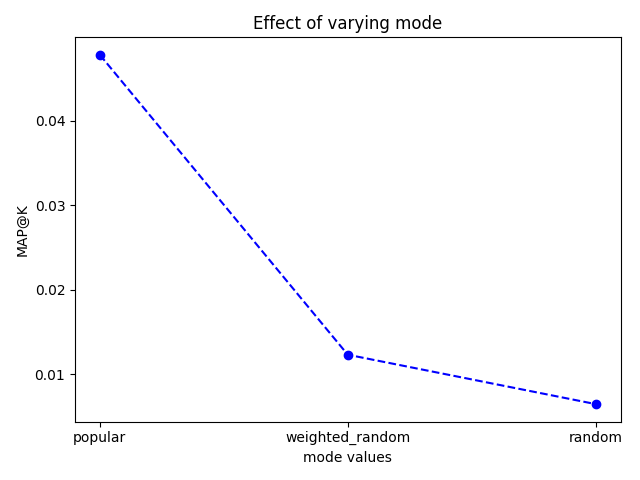
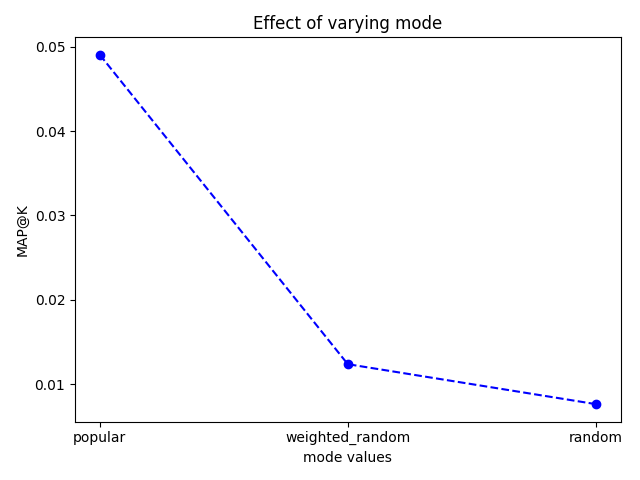
add more graphs

diff --git a/baseline_figs.py b/baseline_figs.py
@@ -1,45 +1,67 @@
 import numpy as np
 import matplotlib.pyplot as plt
+plt.rc('axes', labelsize=18)
+plt.rc('xtick', labelsize=12)
+plt.rc('ytick', labelsize=12)
+plt.rc('legend', fontsize=12)
 
-metrics_to_get = ['MAP@K', 'mean_cosine_list_dissimilarity', 'metadata_diversity']
-hparams = ['mode', 'knn_frac', 'k']
-figure_dir = 'figures_91k_N_20'
-
-
+figure_dir = 'figures_91k_N_20-apr-17'
 hparam_vals_map = {
     'mode': ['popular', 'weighted_random', 'random'],
-    'knn_frac': [0.25, 0.5, 0.75, 1],
-    'k': [50, 100, 250, 500],
+    'k': [20, 30, 50, 75, 100, 250, 500, 750, 1000],
+    'knn_frac': [0, 0.1, 0.2, 0.3, 0.4, 0.5, 0.6, 0.7, 0.8, 0.9, 1],
 }
 
-for hparam_name, hparam_vals in hparam_vals_map.items():
-    results = np.load(f'{figure_dir}/results_{hparam_name}.npy')
-    for i in range(len(metrics_to_get)):
-        metric_name = metrics_to_get[i]
-        plt.figure()
-        plt.title(f'Effect of varying {hparam_name}')
-        plt.plot(hparam_vals, results[i, :], linestyle='--', marker='o', color='b')
+# hparam_vals_map = {
+#     'mode': ['popular', 'weighted_random', 'random'],
+#     'k': [20, 30, 50, 75, 100, 250, 500, 750, 1000],
+#     'knn_frac': [0, 0.1, 0.2, 0.3, 0.4, 0.5, 0.6, 0.7, 0.8, 0.9, 1],
+#     'max_overlap': [0.05, 0.1, 0.15, 0.2, 0.25, 0.3, 0.35, 0.4],
+# }
+# metrics_to_get = ['MAP@K', 'num_genres']
+metrics_to_get = ['MAP@K', 'mean_cosine_list_dissimilarity']
 
+fig, axes = plt.subplots(len(metrics_to_get), len(hparam_vals_map), figsize=(20,10))
+for i in range(len(metrics_to_get)):
+    ax_row = axes[i]
+    metric_name = metrics_to_get[i]
+    ax_row[0].set_ylabel(metric_name)
+
+    for (hparam_name, hparam_vals), ax in zip(hparam_vals_map.items(), ax_row):
+        results = np.load(f'{figure_dir}/results_{hparam_name}.npy')
+#         ax.set_title(f'Effect of varying {hparam_name}')
+        ax.plot(hparam_vals, results[i, :], linestyle='--', marker='o', color='black')
+        
+        ax.set_xlabel(hparam_name)
+        
         xmin = hparam_vals[0]
         xmax = hparam_vals[len(hparam_vals)-1]
 
         if metric_name == 'MAP@K':
-            plt.hlines(0.10620597746944373,xmin, xmax, color='red',linestyles='dashed', label='popular')
-            plt.hlines(0.0001349077479153938,xmin, xmax, color='green', linestyles='dashed', label='random')
-            plt.hlines(0.0855785767079789,xmin, xmax, color='black',linestyles='dashed', label='ALS')
+            ax.hlines(0.10620597746944373,xmin, xmax, color='blue',linestyles='dashed', label='Popular')
+            ax.hlines(0.0001349077479153938,xmin, xmax, color='green', linestyles='dashed', label='Random')
+            ax.hlines(0.0855785767079789,xmin, xmax, color='orange',linestyles='dashed', label='ALS')
+            ax.hlines(0.0059247763602836324,xmin, xmax, color='red',linestyles='dashed', label='Weighted Random')
 
         if metric_name == 'mean_cosine_list_dissimilarity':
-            plt.hlines(0.1782422452673025,xmin, xmax,color='red',linestyles='dashed', label='popular')
-            plt.hlines(0.17520191979126418,xmin, xmax,color='green', linestyles='dashed', label='random')
-            plt.hlines(0.16196735253426256,xmin, xmax, color='black',linestyles='dashed', label='ALS')
+            ax.hlines(0.1782422452673025,xmin, xmax,color='blue',linestyles='dashed', label='Popular')
+            ax.hlines(0.17520191979126418,xmin, xmax,color='green', linestyles='dashed', label='Random')
+            ax.hlines(0.16196735253426256,xmin, xmax, color='orange',linestyles='dashed', label='ALS')
+            ax.hlines(0.15991899935008733,xmin, xmax, color='red',linestyles='dashed', label='Weighted Random')
 
         if metric_name == 'metadata_diversity':
-            plt.hlines(2.708892926008163,xmin, xmax,color='red', linestyles='dashed', label='popular')
-            plt.hlines(4.511948377743507,xmin, xmax,color='green', linestyles='dashed', label='random')
-            plt.hlines(3.223943220517218,xmin, xmax,color='black', linestyles='dashed', label='ALS')
+            ax.hlines(2.708892926008163,xmin, xmax,color='blue', linestyles='dashed', label='Popular')
+            ax.hlines(4.511948377743507,xmin, xmax,color='green', linestyles='dashed', label='Random')
+            ax.hlines(3.223943220517218,xmin, xmax,color='orange', linestyles='dashed', label='ALS')
+            ax.hlines(4.121585381415222,xmin, xmax, color='red',linestyles='dashed', label='Weighted Random')
 
-        plt.ylabel(metric_name)
-        plt.xlabel(hparam_name + ' values')
-        plt.legend()
-        plt.tight_layout()
-        plt.savefig(f'baseline_figs/{hparam_name}_{metric_name}')
+        if metric_name == 'num_genres':
+            ax.hlines(1.9996506626492871,xmin, xmax,color='blue', linestyles='dashed', label='Popular')
+            ax.hlines(4.17823846640903,xmin, xmax,color='green', linestyles='dashed', label='Random')
+            ax.hlines(3.0329796292657365,xmin, xmax,color='orange', linestyles='dashed', label='ALS')
+            ax.hlines(3.7169166612082707,xmin, xmax, color='red',linestyles='dashed', label='Weighted Random')
+
+        ax.legend()
+
+plt.tight_layout()
+plt.savefig('paper_graphs.png')

diff --git a/models/ALSpkNN.py b/models/ALSpkNN.py
@@ -27,12 +27,12 @@ class ALSpkNN():
     def __init__(self,
                  user_df,
                  song_df,
-                 k=150,
-                 knn_frac=0.5,
+                 k=30,
+                 knn_frac=0.7,
                  max_overlap=0.2,
                  cf_weighting_alpha=1,
                  min_songs=5,
-                 mode='popular'):
+                 mode='weighted_random'):
 
         self.user_df = user_df
         self.song_df = song_df
@@ -57,7 +57,7 @@ class ALSpkNN():
         self.pop_model = PopularRecommender()
 
     def fit(self, train_csr):
-#         self.cf_model.fit(train_csr)
+        #         self.cf_model.fit(train_csr)
         self.pop_model.fit(train_csr)
 
     def calculate_overlap(self, list_1, list_2):
@@ -167,10 +167,9 @@ class ALSpkNN():
 
         n_songs = []
         if n > 0:
-#             n_song_tuples = self.cf_model.recommend(
-#                 userid=user_sparse_index, user_items=train_plays_transpose, N=n)
-#            n_songs = [song_tuple[0] for song_tuple in n_song_tuples]
-
+            #             n_song_tuples = self.cf_model.recommend(
+            #                 userid=user_sparse_index, user_items=train_plays_transpose, N=n)
+            #            n_songs = [song_tuple[0] for song_tuple in n_song_tuples]
 
             n_song_tuples = self.pop_model.recommend(
                 user_sparse_index, train_plays_transpose, N=n)

diff --git a/hparam_line_search.py b/hparam_line_search.py
@@ -26,16 +26,16 @@ if __name__ == '__main__':
 
     #order of placement in dictionary matters
     hparam_vals_map = {
-        # 'mode': ['popular', 'weighted_random', 'random'],
-        # 'k': [20, 30, 50, 75, 100, 250, 500, 750, 1000],
+        'mode': ['popular', 'weighted_random', 'random'],
+        'k': [20, 30, 50, 75, 100, 250, 500, 750, 1000],
         'knn_frac': [0, 0.1, 0.2, 0.3, 0.4, 0.5, 0.6, 0.7, 0.8, 0.9, 1],
-        # 'max_overlap': [0.05, 0.1, 0.15, 0.2],
+        'max_overlap': [0.05, 0.1, 0.15, 0.2, 0.25, 0.3, 0.35, 0.4],
         # 'min_songs': [1, 5, 10, 15],
     }
 
     default_vals = {
         'k': 30,
-        'max_overlap': 0.1,
+        'max_overlap': 0.2,
         'knn_frac': 1,
         'min_songs': 5,
         'cf_weighting_alpha': 1,
@@ -43,13 +43,13 @@ if __name__ == '__main__':
     }
 
     metrics_to_get = [
-        'MAP@K', 'mean_cosine_list_dissimilarity', 'metadata_diversity'
+        'MAP@K', 'mean_cosine_list_dissimilarity', 'metadata_diversity', 'num_genres'
     ]
     # metrics_to_get = ['MAP@K']
 
     USER_LIMIT = 99999992
     # USER_LIMIT = 10000
-    figure_dir = 'figures_91k_N_20-apr-17'
+    figure_dir = 'figures_91k_N_20-apr-18'
     for hparam_name, hparam_vals in hparam_vals_map.items():
         print(f'\n\n\n\nStarting {hparam_name} line search...')
         results = np.zeros((len(metrics_to_get), len(hparam_vals)))

diff --git a/baseline_metrics.py b/baseline_metrics.py
@@ -14,10 +14,10 @@ user_limit = 999999
 results = {}
 
 models = {
-    'popular': PopularRecommender,
-    'random': RandomRecommender,
-    'ALS': ALSRecommender,
-    # 'weighted': WeightedRecommender,
+    # 'popular': PopularRecommender,
+    # 'random': RandomRecommender,
+    # 'ALS': ALSRecommender,
+    'weighted': WeightedRecommender,
 }
 for model_name, model_class in models.items():
     print(f'\n\nCalculating metrics for {model_name}')
@@ -32,7 +32,7 @@ for model_name, model_class in models.items():
         song_df=song_df,
         limit=user_limit)
 
-    with open(f'baseline_metrics_user_limit_{user_limit}.json', 'w') as fp:
+    with open(f'baseline_metrics_user_limit_{user_limit}.json', 'a') as fp:
         json.dump(results, fp, indent=4)
 
 print(results)

diff --git a/metrics.py b/metrics.py
@@ -236,7 +236,7 @@ if __name__ == '__main__':
     user_df = pd.read_hdf('data/user_df.h5', key='df')
     metrics_to_calc = ['MAP@K', 'mean_cosine_list_dissimilarity', 'num_genres']
     print("Building and fitting the ALSpkNN model")
-    model = ALSpkNN(user_df, song_df, k=30, knn_frac=0.75, mode='weighted_random')
+    model = ALSpkNN(user_df, song_df, k=30, knn_frac=1, mode='weighted_random')
     model.fit(train_plays)
     print("Evaluating the ALSpkNN model")
     metrics = get_metrics(
